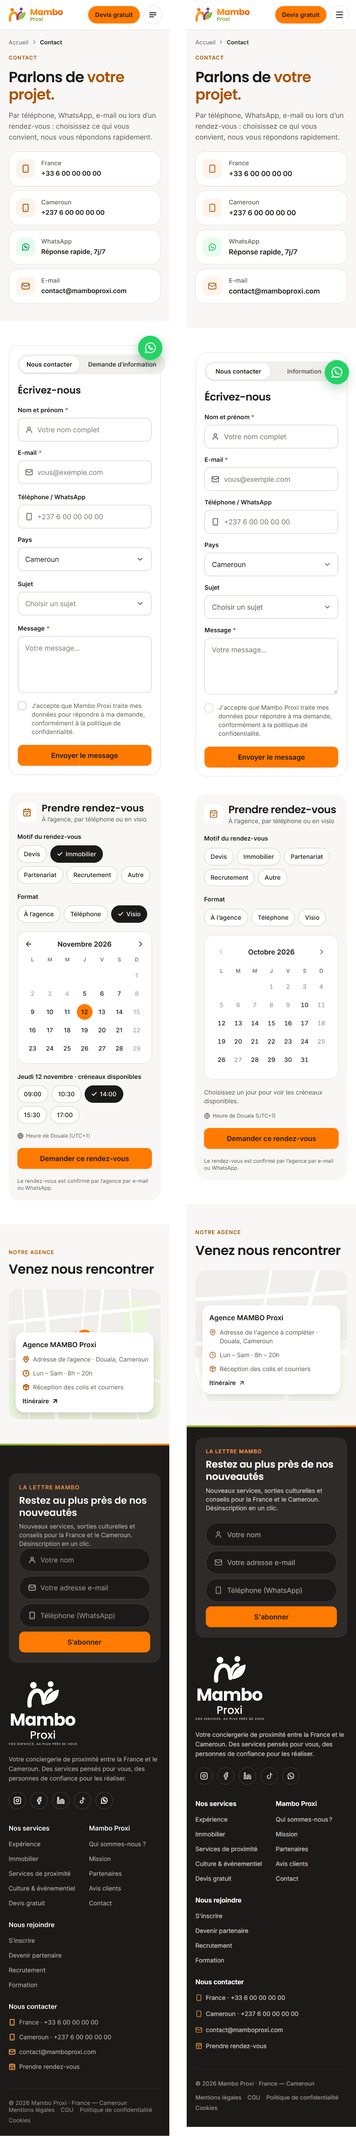
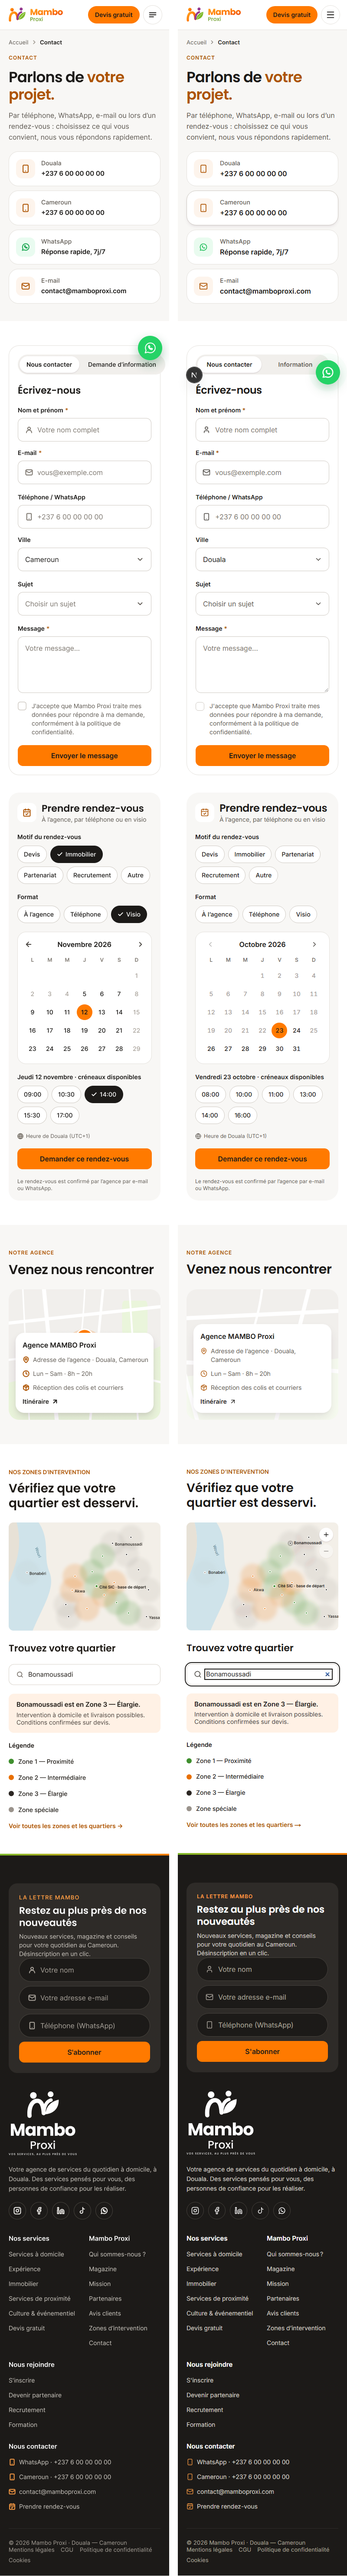
feat(contact): carte « Douala », section des zones d'intervention, version anglaise

diff --git a/src/app/[locale]/(site)/contact/page.tsx b/src/app/[locale]/(site)/contact/page.tsx
@@ -1,28 +1,29 @@
 import { Mail, Smartphone, type LucideIcon } from 'lucide-react';
 import type { Metadata } from 'next';
+import { getTranslations } from 'next-intl/server';
 import type { ComponentType } from 'react';
 import { WhatsappIcon } from '@/components/brand/social-icons';
 import { AppointmentForm } from '@/components/forms/appointment-form';
 import { ContactForm, type ContactTab } from '@/components/forms/contact-form';
 import { Agency } from '@/components/sections/contact/agency';
+import { ZonesSection } from '@/components/sections/zones/zones-section';
 import { AccentText } from '@/components/ui/accent-text';
 import { Breadcrumb } from '@/components/ui/breadcrumb';
-import { unwrap } from '@/lib/api/result';
+import { unwrap, unwrapOrNull } from '@/lib/api/result';
 import { api, cached } from '@/lib/api/server';
 import { cacheTags } from '@/lib/api/tags';
 import { cn } from '@/lib/cn';
 import { frenchTypography } from '@/lib/format/typography';
+import type { DynamicSection } from '@/lib/api/schema';
 import { routes } from '@/lib/routes';
 import { getSiteSettings } from '@/lib/site-data';
 import { whatsappUrl } from '@/lib/whatsapp';
 import { seoMetadata } from '@/lib/seo/metadata';
 
-export const metadata: Metadata = seoMetadata({
-  title: 'Contact',
-  description:
-    'Par téléphone, WhatsApp, e-mail ou lors d’un rendez-vous à l’agence de Douala : choisissez ce qui vous convient, nous vous répondons rapidement.',
-  path: '/contact',
-});
+export async function generateMetadata(): Promise<Metadata> {
+  const t = await getTranslations('contact');
+  return seoMetadata({ title: t('metaTitle'), description: t('metaDescription'), path: '/contact' });
+}
 
 type SearchParams = { searchParams: Promise<{ onglet?: string }> };
 
@@ -35,10 +36,13 @@ type ContactMethod = {
   whatsapp?: boolean;
 };
 
-/** Contact (desktop `69:7651`, mobile `69:8178`) : moyens de contact, formulaires, rendez-vous, agence. Pas de bandeau CTA. */
+/**
+ * Contact (desktop `69:7651`, mobile `69:8178`) : moyens de contact, formulaires, rendez-vous, agence, carte des zones
+ * d'intervention (`290:31838`). Pas de bandeau CTA.
+ */
 export default async function ContactPage({ searchParams }: SearchParams) {
   const { onglet } = await searchParams;
-  const [settings, categories] = await Promise.all([
+  const [settings, categories, zones, t, tRubrique] = await Promise.all([
     getSiteSettings(),
     unwrap(
       api.GET('/v1/categories', {
@@ -46,22 +50,25 @@ export default async function ContactPage({ searchParams }: SearchParams) {
         ...cached([cacheTags.categories, cacheTags.services]),
       }),
     ),
+    unwrapOrNull(api.GET('/v1/zones', cached([cacheTags.zones]))),
+    getTranslations('contact'),
+    getTranslations('rubrique'),
   ]);
-  const { contact } = settings;
+  const { contact, agency } = settings;
   const methods: ContactMethod[] = [
-    ...(contact.phoneFrance
+    ...(agency.phone
       ? [
           {
             icon: Smartphone,
-            label: 'France',
-            value: contact.phoneFranceDisplay ?? contact.phoneFrance,
-            href: `tel:${contact.phoneFrance}`,
+            label: agency.city,
+            value: agency.phoneDisplay ?? agency.phone,
+            href: `tel:${agency.phone}`,
           },
         ]
       : []),
     {
       icon: Smartphone,
-      label: 'Cameroun',
+      label: t('methods.cameroon'),
       value: contact.phoneCameroonDisplay ?? contact.phoneCameroon,
       href: `tel:${contact.phoneCameroon}`,
     },
@@ -69,37 +76,42 @@ export default async function ContactPage({ searchParams }: SearchParams) {
       ? [
           {
             icon: WhatsappIcon,
-            label: 'WhatsApp',
-            value: 'Réponse rapide, 7j/7',
+            label: t('methods.whatsapp'),
+            value: t('methods.whatsappValue'),
             href: whatsappUrl(settings.whatsapp.number, settings.whatsapp.message),
             external: true,
             whatsapp: true,
           },
         ]
       : []),
-    { icon: Mail, label: 'E-mail', value: contact.email, href: `mailto:${contact.email}` },
+    { icon: Mail, label: t('methods.email'), value: contact.email, href: `mailto:${contact.email}` },
   ];
   const serviceGroups = categories.map((category) => ({
     name: category.name,
     services: (category.services ?? []).map((service) => ({ slug: service.slug, name: service.name })),
   }));
   const initialTab: ContactTab = onglet === 'information' ? 'INFORMATION' : 'CONTACT';
+  const zonesSection: DynamicSection = {
+    id: 'zones',
+    type: 'dynamic',
+    enabled: true,
+    source: 'zones-map',
+    eyebrow: t('zones.eyebrow'),
+    title: t('zones.title'),
+    link: { label: t('zones.link'), href: '/zones-d-intervention', external: false },
+  };
 
   return (
     <>
       <section className="bg-neutral-50">
-        <div className="container-site flex flex-col gap-5 pt-5 pb-14 xl:gap-10 xl:pt-12 xl:pb-[72px]">
-          <Breadcrumb items={[{ label: 'Accueil', href: routes.home }, { label: 'Contact' }]} />
+        <div className="container-site flex flex-col gap-5 pt-5 pb-10 md:pb-14 xl:gap-10 xl:pt-12 xl:pb-[72px]">
+          <Breadcrumb items={[{ label: tRubrique('home'), href: routes.home }, { label: t('eyebrow') }]} />
           <div className="flex flex-col gap-4 xl:max-w-[820px]">
-            <p className="text-web-eyebrow">Contact</p>
+            <p className="text-web-eyebrow">{t('eyebrow')}</p>
             <h1 className="font-brand text-[34px] leading-10 font-semibold tracking-[-0.025em] text-text-main md:text-[44px] md:leading-[50px] xl:text-[56px] xl:leading-[62px]">
-              <AccentText text="Parlons de ==votre projet.==" />
+              <AccentText text={t('title')} />
             </h1>
-            <p className="text-web-lead text-text-muted">
-              {frenchTypography(
-                'Par téléphone, WhatsApp, e-mail ou lors d’un rendez-vous : choisissez ce qui vous convient, nous vous répondons rapidement.',
-              )}
-            </p>
+            <p className="text-web-lead text-text-muted">{frenchTypography(t('lead'))}</p>
           </div>
           <ul className="grid gap-2.5 md:grid-cols-2 md:gap-4 xl:grid-cols-4">
             {methods.map(({ icon: MethodIcon, label, value, href, external, whatsapp }) => (
@@ -124,7 +136,7 @@ export default async function ContactPage({ searchParams }: SearchParams) {
                     </span>
                     <span className="font-ui text-[16px] leading-6 font-semibold break-words text-text-main">
                       {value}
-                      {external && <span className="sr-only"> (nouvel onglet)</span>}
+                      {external && <span className="sr-only"> {t('methods.newTab')}</span>}
                     </span>
                   </span>
                 </a>
@@ -142,6 +154,8 @@ export default async function ContactPage({ searchParams }: SearchParams) {
       </section>
 
       <Agency settings={settings} />
+
+      {zones && <ZonesSection section={zonesSection} areas={zones} />}
     </>
   );
 }

diff --git a/src/components/sections/contact/agency.tsx b/src/components/sections/contact/agency.tsx
@@ -1,6 +1,6 @@
 import { ArrowUpRight, Clock, MapPin, Package } from 'lucide-react';
+import { getLocale, getTranslations } from 'next-intl/server';
 import type { SiteSettings } from '@/lib/api/schema';
-import { COUNTRIES } from '@/lib/countries';
 import { frenchTypography } from '@/lib/format/typography';
 import { SectionHeading } from '../section-heading';
 
@@ -52,19 +52,20 @@ function AgencyMap() {
  * « Notre agence » (`69:8019`) : titre, plan (1312 × 460, rayon 32 ; 300 de haut en mobile) et carte adresse
  * (360, ombre forte) en haut à gauche — en bas, pleine largeur moins 16 px, en mobile.
  */
-export function Agency({ settings }: { settings: SiteSettings }) {
+export async function Agency({ settings }: { settings: SiteSettings }) {
+  const [t, locale] = await Promise.all([getTranslations('contact.agency'), getLocale()]);
   const { agency, contact } = settings;
-  const country = COUNTRIES.find((item) => item.code === agency.country)?.name ?? agency.country;
+  const country = new Intl.DisplayNames([locale], { type: 'region' }).of(agency.country) ?? agency.country;
   const address = [agency.addressLines.join(', '), `${agency.city}, ${country}`].filter(Boolean).join(' · ');
   const rows = [
     { icon: MapPin, text: address },
     { icon: Clock, text: contact.hoursLabel },
-    ...(agency.parcelReceptionNote ? [{ icon: Package, text: 'Réception des colis et courriers' }] : []),
+    ...(agency.parcelReceptionNote ? [{ icon: Package, text: t('parcels') }] : []),
   ];
   return (
     <section className="bg-neutral-50 py-14 xl:py-24">
       <div className="container-site flex flex-col gap-7 xl:gap-12">
-        <SectionHeading eyebrow="Notre agence" title="Venez nous rencontrer" />
+        <SectionHeading eyebrow={t('eyebrow')} title={t('title')} className="gap-3 md:gap-4" />
         <div className="relative h-[300px] overflow-hidden rounded-[24px] md:h-[400px] xl:h-[460px] xl:rounded-[32px]">
           <AgencyMap />
           <address className="absolute inset-x-4 bottom-4 flex flex-col gap-3 rounded-[20px] bg-neutral-0 p-4 not-italic shadow-3 md:inset-x-auto md:top-10 md:bottom-auto md:left-10 md:w-[360px] md:p-6">
@@ -87,8 +88,8 @@ export function Agency({ settings }: { settings: SiteSettings }) {
                 rel="noopener noreferrer"
                 className="group/route inline-flex items-center gap-1.5 self-start rounded-xs font-ui text-[14px] leading-5 font-semibold tracking-[0.005em] text-text-main"
               >
-                Itinéraire
-                <span className="sr-only"> (nouvel onglet)</span>
+                {t('route')}
+                <span className="sr-only"> {t('newTab')}</span>
                 <ArrowUpRight
                   aria-hidden
                   size={16}
